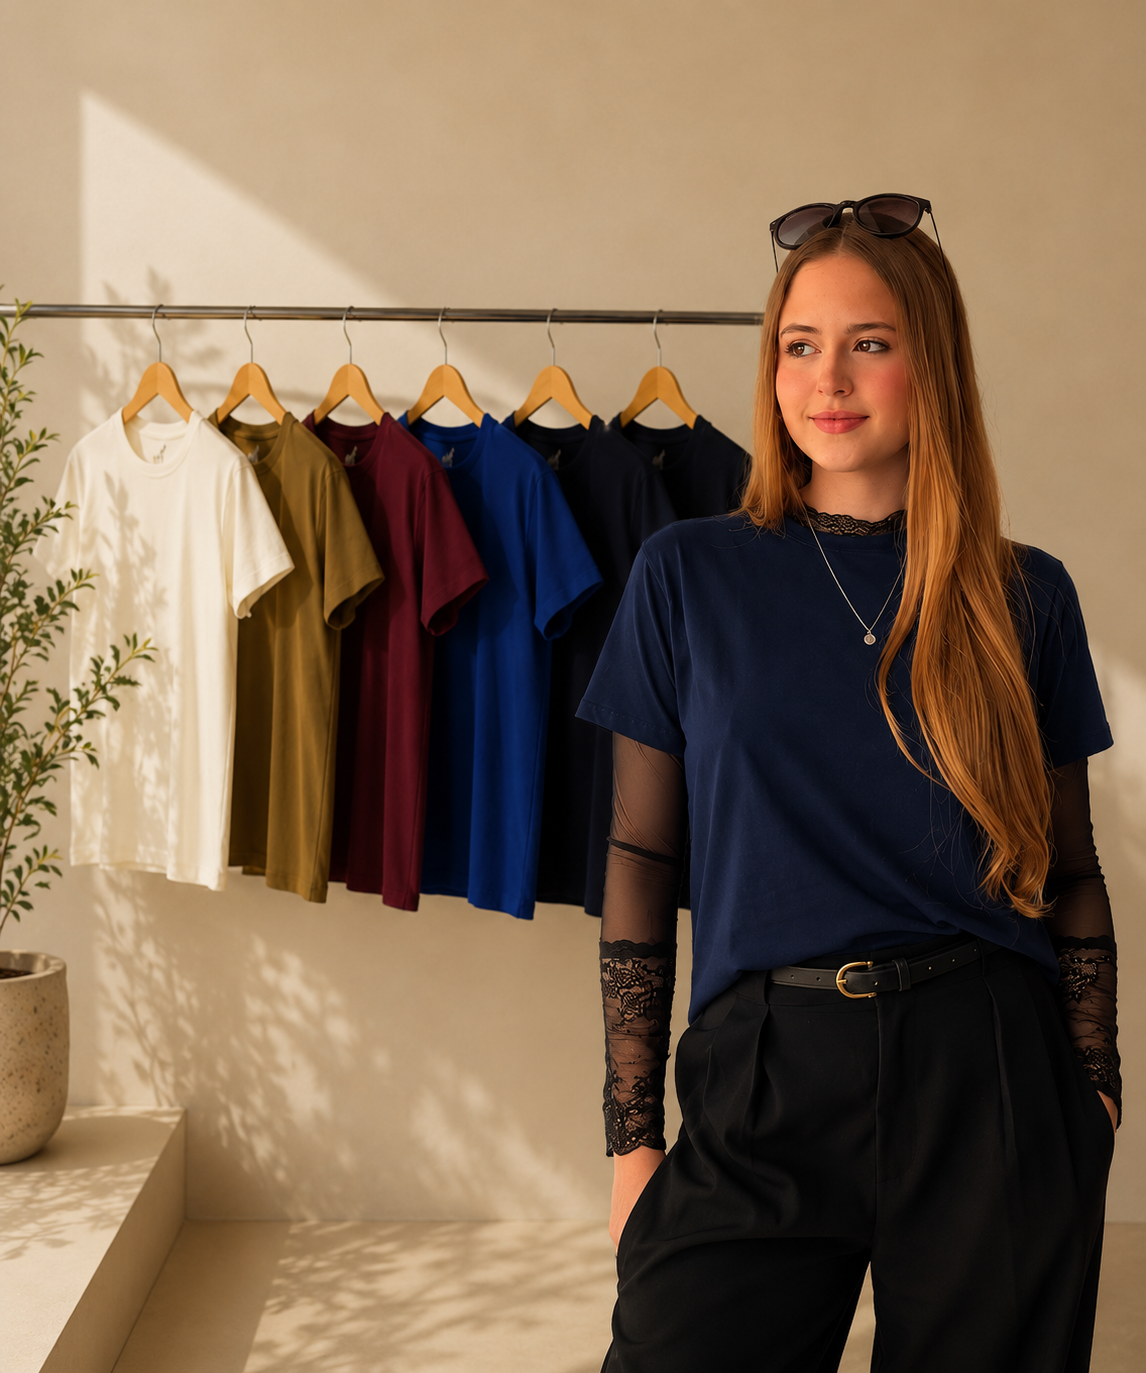
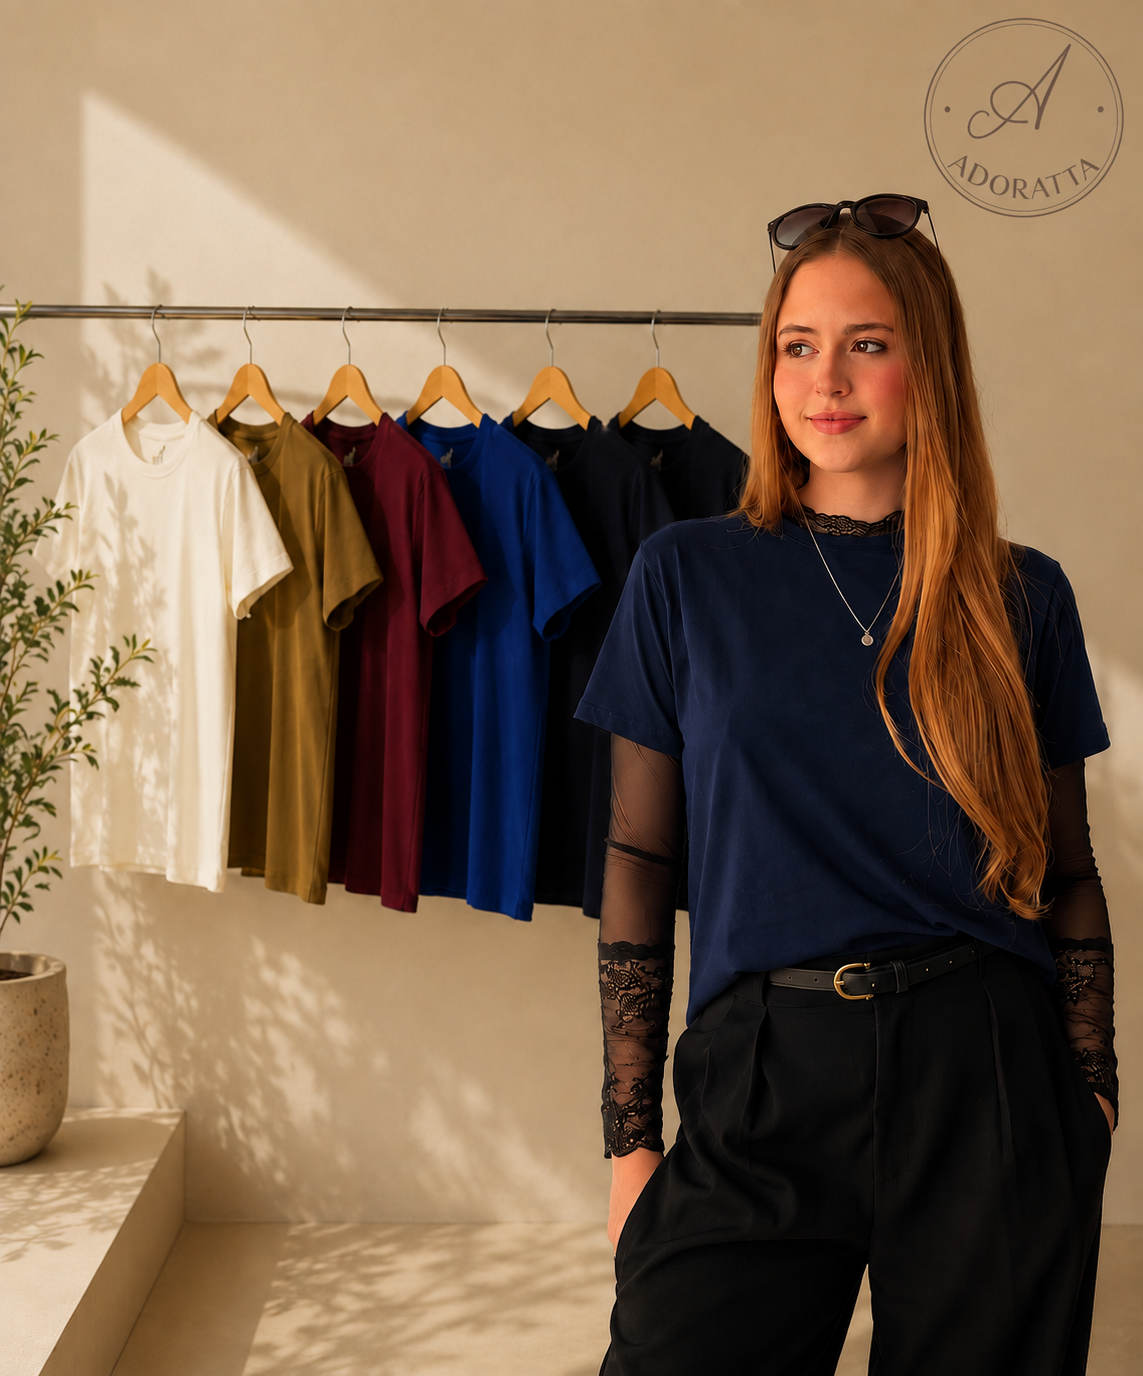
ok

diff --git a/index.html b/index.html
@@ -4,18 +4,18 @@
   <meta charset="UTF-8" />
   <meta name="viewport" content="width=device-width, initial-scale=1.0" />
   <title>Adoratta Brand</title>
-  <meta name="description" content="Adoratta Brand — moda básica em Londrina/PR: camisetas e vestidos. Pronta entrega, atacado e varejo, com envio para todo o Brasil." />
+  <meta name="description" content="Adoratta Brand — moda básica em Londrina/PR: T-shirts e vestidos. Pronta entrega, atacado e varejo, com envio para todo o Brasil." />
 
   <meta property="og:type" content="website" />
   <meta property="og:site_name" content="Adoratta Brand" />
   <meta property="og:title" content="Adoratta Brand" />
-  <meta property="og:description" content="Moda básica em Londrina/PR: camisetas e vestidos. Pronta entrega, atacado e varejo, com envio para todo o Brasil." />
+  <meta property="og:description" content="Moda básica em Londrina/PR: T-shirts e vestidos. Pronta entrega, atacado e varejo, com envio para todo o Brasil." />
   <meta property="og:image" content="assets/images/logo/logo.jpg" />
   <meta property="og:locale" content="pt_BR" />
 
   <meta name="twitter:card" content="summary_large_image" />
   <meta name="twitter:title" content="Adoratta Brand" />
-  <meta name="twitter:description" content="Moda básica em Londrina/PR: camisetas e vestidos. Pronta entrega, atacado e varejo, com envio para todo o Brasil." />
+  <meta name="twitter:description" content="Moda básica em Londrina/PR: T-shirts e vestidos. Pronta entrega, atacado e varejo, com envio para todo o Brasil." />
   <meta name="twitter:image" content="assets/images/logo/logo.jpg" />
 
   <link rel="icon" href="assets/images/logo/logo.jpg" type="image/jpeg" />
@@ -38,8 +38,8 @@
       --border: #2e2e2e;
       --border-light: #3a3a3a;
       --announcement-bg: #5E4438;
-      --nav-height-desktop: 58px;
-      --nav-height-mobile: 56px;
+      --nav-height-desktop: 66px;
+      --nav-height-mobile: 62px;
       --announcement-height: 0px;
     }
 
@@ -115,7 +115,7 @@
     }
 
     .logo img {
-      height: 46px;
+      height: 60px;
       width: auto;
       transition: opacity 0.2s;
     }
@@ -125,7 +125,7 @@
     .logo-text {
       font-family: 'Barlow Condensed', sans-serif;
       font-weight: 700;
-      font-size: 22px;
+      font-size: 28px;
       letter-spacing: 0.06em;
       text-transform: uppercase;
       color: var(--header-ink);
@@ -134,8 +134,12 @@
     }
 
     .logo-mobile .logo-text {
-      font-size: 14px;
+      font-size: 17px;
       margin-left: 8px;
+    }
+
+    .logo-mobile img {
+      height: 50px;
     }
 
     /* Desktop nav links */
@@ -149,11 +153,11 @@
     }
 
     .nav-links a {
-      color: var(--header-ink);
+      color: var(--black);
       text-decoration: none;
       font-family: 'Barlow Condensed', sans-serif;
       font-weight: 500;
-      font-size: 13.5px;
+      font-size: 15px;
       letter-spacing: 0.04em;
       text-transform: uppercase;
       padding: 6px 10px;
@@ -508,7 +512,7 @@
       text-decoration: none;
       font-family: 'Barlow Condensed', sans-serif;
       font-weight: 500;
-      font-size: 16px;
+      font-size: 17px;
       letter-spacing: 0.03em;
       text-transform: uppercase;
       transition: background 0.15s, padding-left 0.15s;
@@ -851,6 +855,10 @@
       .nav-links { display: none; }
       .logo { display: none; }
       .hamburger { display: flex; }
+      .hero-bg img {
+        object-fit: contain;
+        object-position: center;
+      }
       .logo-mobile {
         display: flex;
         position: absolute;
@@ -3049,7 +3057,7 @@
       left: 14px;
       right: 14px;
       height: 1.5px;
-      background: #fff;
+      background: var(--black);
       transform: scaleX(0);
       transform-origin: left;
       transition: transform 0.25s ease;
@@ -3145,14 +3153,14 @@
 
       <!-- Logo mobile (centered) -->
       <a href="#inicio" class="logo logo-mobile" aria-label="Ir para o início">
-        <img src="assets/images/logo/logo.jpg" alt="Adoratta Brand" style="height:38px;" />
+        <img src="assets/images/logo/logo.jpg" alt="Adoratta Brand" />
         <span class="logo-text">Adoratta Brand</span>
       </a>
 
       <!-- Desktop nav links -->
       <ul class="nav-links">
-        <li><a href="#camisetas">Camisetas Gola Redonda</a></li>
-        <li><a href="#camisetas-v">Camisetas Gola V</a></li>
+        <li><a href="#camisetas">T-shirts Gola Redonda</a></li>
+        <li><a href="#camisetas-v">T-shirts Gola V</a></li>
         <li><a href="#vestidos">Vestidos Gola V</a></li>
         <li><a href="#vestidos-redonda">Vestidos Gola Redonda</a></li>
         <li><a href="#contato">Contato</a></li>
@@ -3186,8 +3194,8 @@
     </div>
 
     <ul class="drawer-nav">
-      <li><a href="#camisetas">Camisetas Gola Redonda</a></li>
-      <li><a href="#camisetas-v">Camisetas Gola V</a></li>
+      <li><a href="#camisetas">T-shirts Gola Redonda</a></li>
+      <li><a href="#camisetas-v">T-shirts Gola V</a></li>
       <li><a href="#vestidos">Vestidos Gola V</a></li>
       <li><a href="#vestidos-redonda">Vestidos Gola Redonda</a></li>
       <li><a href="#contato">Contato</a></li>
@@ -3214,9 +3222,9 @@
     </div>
 
     <div class="hero-content">
-      <p class="hero-subtitle">Estilo leve<br class="hero-subtitle-mobile-break"> para todos os momentos</p>
+      <p class="hero-subtitle">Minimalismo, conforto<br class="hero-subtitle-mobile-break"> e elegância.</p>
 
-      <h1 class="hero-title">Peças que<br>combinam<br class="hero-title-mobile-break"> com você</h1>
+      <h1 class="hero-title">Uma marca pensada<br>para mulheres<br class="hero-title-mobile-break"> reais.</h1>
 
       <!-- CTA pill -->
       <a href="https://wa.me/5543988670606?text=Ol%C3%A1%2C%20Adoratta%21%20Quero%20conhecer%20as%20pe%C3%A7as." class="hero-cta" target="_blank" rel="noopener">
@@ -3243,7 +3251,7 @@
   <section class="products-section collection-section--white" id="camisetas">
 
   <div class="products-header">
-    <h2 class="products-title">CAMISETAS GOLA REDONDA</h2>
+    <h2 class="products-title">T-SHIRTS GOLA REDONDA</h2>
     <p class="products-subtitle">Básicas essenciais, com tecido macio e caimento leve para o dia a dia.</p>
   </div>
 
@@ -3264,7 +3272,7 @@
 <section class="products-section" id="camisetas-v">
 
   <div class="products-header">
-    <h2 class="products-title">CAMISETAS GOLA V</h2>
+    <h2 class="products-title">T-SHIRTS GOLA V</h2>
     <p class="products-subtitle">O mesmo conforto e as mesmas cores, agora com gola V.</p>
   </div>
 
@@ -3391,7 +3399,7 @@
       <div class="footer-col">
         <h4 class="footer-col-title">Informações</h4>
         <ul class="footer-links">
-          <li><a href="#camisetas">Camisetas</a></li>
+          <li><a href="#camisetas">T-shirts</a></li>
           <li><a href="#vestidos">Vestidos Gola V</a></li>
           <li><a href="#vestidos-redonda">Vestidos Gola Redonda</a></li>
           <li><a href="https://wa.me/5543988670606?text=Ol%C3%A1%2C%20Adoratta%21%20Quero%20falar%20com%20voc%C3%AAs." target="_blank" rel="noopener">Fale Conosco</a></li>
@@ -3488,7 +3496,6 @@
             <button class="modal-size-btn" data-size="M">M</button>
             <button class="modal-size-btn" data-size="G">G</button>
             <button class="modal-size-btn" data-size="GG">GG</button>
-            <button class="modal-size-btn" data-size="XG">XG</button>
           </div>
         </div>
 
@@ -3505,11 +3512,11 @@
         <div class="modal-features">
           <div class="modal-feature">
             <svg viewBox="0 0 24 24"><circle cx="12" cy="12" r="10"/><path d="M12 8v4l3 3"/></svg>
-            <span class="modal-feature-label">96%<br>Algodão</span>
+            <span class="modal-feature-label" id="modalCottonPercentage">96%<br>Algodão</span>
           </div>
           <div class="modal-feature">
             <svg viewBox="0 0 24 24"><rect x="3" y="3" width="18" height="18" rx="2"/><path d="M3 9h18M9 21V9"/></svg>
-            <span class="modal-feature-label">Gramatura<br>190G</span>
+            <span class="modal-feature-label">Gramatura<br>180G</span>
           </div>
           <div class="modal-feature">
             <svg viewBox="0 0 24 24"><path d="M12 2l3.09 6.26L22 9.27l-5 4.87 1.18 6.88L12 17.77l-6.18 3.25L7 14.14 2 9.27l6.91-1.01L12 2z"/></svg>
@@ -3533,9 +3540,9 @@
           <button class="modal-accordion-btn">Descrição <svg viewBox="0 0 24 24"><line x1="12" y1="5" x2="12" y2="19"/><line x1="5" y1="12" x2="19" y2="12"/></svg></button>
           <div class="modal-accordion-body" id="modalDescription">
             <p>— Conheça a coleção Adoratta Brand!</p>
-            <p>— Reúne alta performance com o casual, perfeito para o treino e para o dia a dia, combinando estilo e versatilidade.</p>
-            <p>— Tecido Tech: 96% algodão 4% elastano, proporcionando caimento perfeito ao corpo.</p>
-            <p>— Gramatura de 190GSM.</p>
+            <p>— Reúne alta performance com o casual, conforto para o dia a dia, combinando estilo e versatilidade.</p>
+            <p>— Malha Premium: 96% algodão e 4% elastano, proporcionando caimento perfeito ao corpo.</p>
+            <p>— Gramatura de 180 g/m².</p>
             <p>— Gola 2x1 em Ribana Canelada com elastano, não esgarça com o tempo.</p>
             <p>— Tingimento reativo (não desbota) e pré encolhido para manter a forma original.</p>
             <p>— Estampa em Silk Screen no Plastisol para alta durabilidade.</p>
@@ -3545,9 +3552,9 @@
         <div class="modal-accordion-item">
           <button class="modal-accordion-btn">Detalhes do Produto <svg viewBox="0 0 24 24"><line x1="12" y1="5" x2="12" y2="19"/><line x1="5" y1="12" x2="19" y2="12"/></svg></button>
           <div class="modal-accordion-body" id="modalProductDetails">
-            <p><strong>Material:</strong> 96% Algodão e 4% elastano</p>
-            <p><strong>Gramatura:</strong> 190g/m²</p>
-            <p><strong>Categoria:</strong> Camiseta</p>
+            <p><strong>Material:</strong> Malha Premium — 96% algodão e 4% elastano</p>
+            <p><strong>Gramatura:</strong> 180 g/m²</p>
+            <p><strong>Categoria:</strong> T-shirt</p>
           </div>
         </div>
 
@@ -3608,26 +3615,26 @@
       {
         trackId: 'productsTrack',
         products: [
-          { name: 'Camiseta Básica - Off White', images: ['assets/images/camisetasredondaspessoas/7.jpg', 'assets/images/camisetas/1.jpg', 'assets/images/novasredondas/1.jpg'], price: 'R$ 79,90' },
-          { name: 'Camiseta Básica - Preta', images: ['assets/images/camisetasredondaspessoas/6.jpg', 'assets/images/camisetas/5.jpg', 'assets/images/novasredondas/3.jpg', 'assets/images/novasredondas/4.jpg', 'assets/images/novasredondas/5.jpg'], price: 'R$ 79,90' },
-          { name: 'Camiseta Básica - Marinho', images: ['assets/images/camisetasredondaspessoas/8.png', 'assets/images/camisetas/4.jpg'], price: 'R$ 79,90' },
-          { name: 'Camiseta Básica - Marsala', images: ['assets/images/camisetasredondaspessoas/5.jpg', 'assets/images/camisetas/3.jpg', 'assets/images/novasredondas/2.jpg'], price: 'R$ 79,90' },
-          { name: 'Camiseta Básica - Caramelo', images: ['assets/images/camisetasredondaspessoas/1.jpg', 'assets/images/camisetas/2.jpg'], price: 'R$ 79,90' },
-          { name: 'Camiseta Básica - Verde Cidreira', images: ['assets/images/camisetasredondaspessoas/2.jpg', 'assets/images/novasredondas/7.jpg'], price: 'R$ 79,90' },
-          { name: 'Camiseta Básica - Verde Mata', images: ['assets/images/camisetasredondaspessoas/3.jpg'], price: 'R$ 79,90' },
-          { name: 'Camiseta Básica - Verde Oliva', images: ['assets/images/camisetasredondaspessoas/4.jpg', 'assets/images/novasredondas/6.jpg'], price: 'R$ 79,90' }
+          { name: 'T-shirt Básica - Off White', images: ['assets/images/camisetasredondaspessoas/7.jpg', 'assets/images/camisetas/1.jpg', 'assets/images/novasredondas/1.jpg'], price: 'R$ 79,90' },
+          { name: 'T-shirt Básica - Preta', images: ['assets/images/camisetasredondaspessoas/6.jpg', 'assets/images/camisetas/5.jpg', 'assets/images/novasredondas/3.jpg', 'assets/images/novasredondas/4.jpg', 'assets/images/novasredondas/5.jpg'], price: 'R$ 79,90' },
+          { name: 'T-shirt Básica - Marinho', images: ['assets/images/camisetasredondaspessoas/8.png', 'assets/images/camisetas/4.jpg'], price: 'R$ 79,90' },
+          { name: 'T-shirt Básica - Marsala', images: ['assets/images/camisetasredondaspessoas/5.jpg', 'assets/images/camisetas/3.jpg', 'assets/images/novasredondas/2.jpg'], price: 'R$ 79,90' },
+          { name: 'T-shirt Básica - Caramelo', images: ['assets/images/camisetasredondaspessoas/1.jpg', 'assets/images/camisetas/2.jpg'], price: 'R$ 79,90' },
+          { name: 'T-shirt Básica - Verde Cidreira', images: ['assets/images/camisetasredondaspessoas/2.jpg', 'assets/images/novasredondas/7.jpg'], price: 'R$ 79,90' },
+          { name: 'T-shirt Básica - Verde Mata', images: ['assets/images/camisetasredondaspessoas/3.jpg'], price: 'R$ 79,90' },
+          { name: 'T-shirt Básica - Verde Oliva', images: ['assets/images/camisetasredondaspessoas/4.jpg', 'assets/images/novasredondas/6.jpg'], price: 'R$ 79,90' }
         ]
       },
       {
         trackId: 'productsVTrack',
         products: [
-          { name: 'Camiseta Gola V - Off White', images: ['assets/images/camisetasvpessoas/7.png', 'assets/images/camisetas v/1.jpg'], price: 'R$ 79,90' },
-          { name: 'Camiseta Gola V - Preta', images: ['assets/images/camisetasvpessoas/5.png', 'assets/images/camisetas v/5.jpg'], price: 'R$ 79,90' },
-          { name: 'Camiseta Gola V - Marinho', images: ['assets/images/camisetasvpessoas/1.png', 'assets/images/camisetas v/4.jpg', 'assets/images/novasv/1.jpg', 'assets/images/novasv/2.jpg'], price: 'R$ 79,90' },
-          { name: 'Camiseta Gola V - Marsala', images: ['assets/images/camisetasvpessoas/8.png', 'assets/images/camisetas v/2.jpg'], price: 'R$ 79,90' },
-          { name: 'Camiseta Gola V - Caramelo', images: ['assets/images/camisetasvpessoas/6.png', 'assets/images/camisetas v/3.jpg'], price: 'R$ 79,90' },
-          { name: 'Camiseta Gola V - Verde Cidreira', images: ['assets/images/camisetasvpessoas/4.png'], price: 'R$ 79,90' },
-          { name: 'Camiseta Gola V - Verde Mata', images: ['assets/images/camisetasvpessoas/2.png', 'assets/images/camisetasvpessoas/3.png', 'assets/images/novasv/3.jpg'], price: 'R$ 79,90' }
+          { name: 'T-shirt Gola V - Off White', images: ['assets/images/camisetasvpessoas/7.png', 'assets/images/camisetas v/1.jpg'], price: 'R$ 79,90' },
+          { name: 'T-shirt Gola V - Preta', images: ['assets/images/camisetasvpessoas/5.png', 'assets/images/camisetas v/5.jpg'], price: 'R$ 79,90' },
+          { name: 'T-shirt Gola V - Marinho', images: ['assets/images/camisetasvpessoas/1.png', 'assets/images/camisetas v/4.jpg', 'assets/images/novasv/1.jpg', 'assets/images/novasv/2.jpg'], price: 'R$ 79,90' },
+          { name: 'T-shirt Gola V - Marsala', images: ['assets/images/camisetasvpessoas/8.png', 'assets/images/camisetas v/2.jpg'], price: 'R$ 79,90' },
+          { name: 'T-shirt Gola V - Caramelo', images: ['assets/images/camisetasvpessoas/6.png', 'assets/images/camisetas v/3.jpg'], price: 'R$ 79,90' },
+          { name: 'T-shirt Gola V - Verde Cidreira', images: ['assets/images/camisetasvpessoas/4.png'], price: 'R$ 79,90' },
+          { name: 'T-shirt Gola V - Verde Mata', images: ['assets/images/camisetasvpessoas/2.png', 'assets/images/camisetasvpessoas/3.png', 'assets/images/novasv/3.jpg'], price: 'R$ 79,90' }
         ]
       }
     ];
@@ -4201,9 +4208,23 @@
       const detailsEl  = document.getElementById('modalProductDetails');
       const selSizeEl  = document.getElementById('modalSelectedSize');
       const waBtn      = document.getElementById('modalWaBtn');
+      const cottonEl   = document.getElementById('modalCottonPercentage');
       const container  = overlay?.querySelector('.modal-container');
       const defaultDescription = descEl?.innerHTML || '';
       const defaultDetails = detailsEl?.innerHTML || '';
+      const dressDescription = [
+        'Conheça a coleção Adoratta Brand!',
+        'Malha Premium: 100% algodão, com toque macio e confortável.',
+        'Gramatura de 180 g/m².',
+        'Gola confeccionada no mesmo tecido do corpo.',
+        'Tingimento reativo (não desbota) e pré-encolhido para manter a forma original.'
+      ];
+      const dressDetails = [
+        '<strong>Material:</strong> Malha Premium — 100% algodão',
+        '<strong>Gramatura:</strong> 180 g/m²',
+        '<strong>Categoria:</strong> Vestido',
+        '<strong>Gola:</strong> Mesmo tecido do corpo'
+      ];
       let currentProductName = '';
 
       function updateWhatsAppLink() {
@@ -4226,6 +4247,7 @@
         detailsEl.innerHTML = data.details?.length
           ? data.details.map(item => `<p>${item}</p>`).join('')
           : defaultDetails;
+        if (cottonEl) cottonEl.innerHTML = data.isDress ? '100%<br>Algodão' : '96%<br>Algodão';
         const images = data.images?.length ? data.images : [data.img];
         mainImg.src = images[0];
         mainImg.alt = data.name;
@@ -4322,9 +4344,16 @@
                 return [];
               }
             };
-            const description = readEncodedList(card.dataset.description);
-            const details = readEncodedList(card.dataset.details);
-            openModal({ img: img?.src || '', images, name, priceOld: old, off: badge ? badge + ' OFF' : '', price, installments: inst, description, details });
+            const isDress = Boolean(card.closest('#vestidos, #vestidos-redonda'));
+            const encodedDescription = readEncodedList(card.dataset.description);
+            const encodedDetails = readEncodedList(card.dataset.details);
+            const description = encodedDescription.length
+              ? encodedDescription
+              : (isDress ? dressDescription : []);
+            const details = encodedDetails.length
+              ? encodedDetails
+              : (isDress ? dressDetails : []);
+            openModal({ img: img?.src || '', images, name, priceOld: old, off: badge ? badge + ' OFF' : '', price, installments: inst, description, details, isDress });
           });
         });
       }
